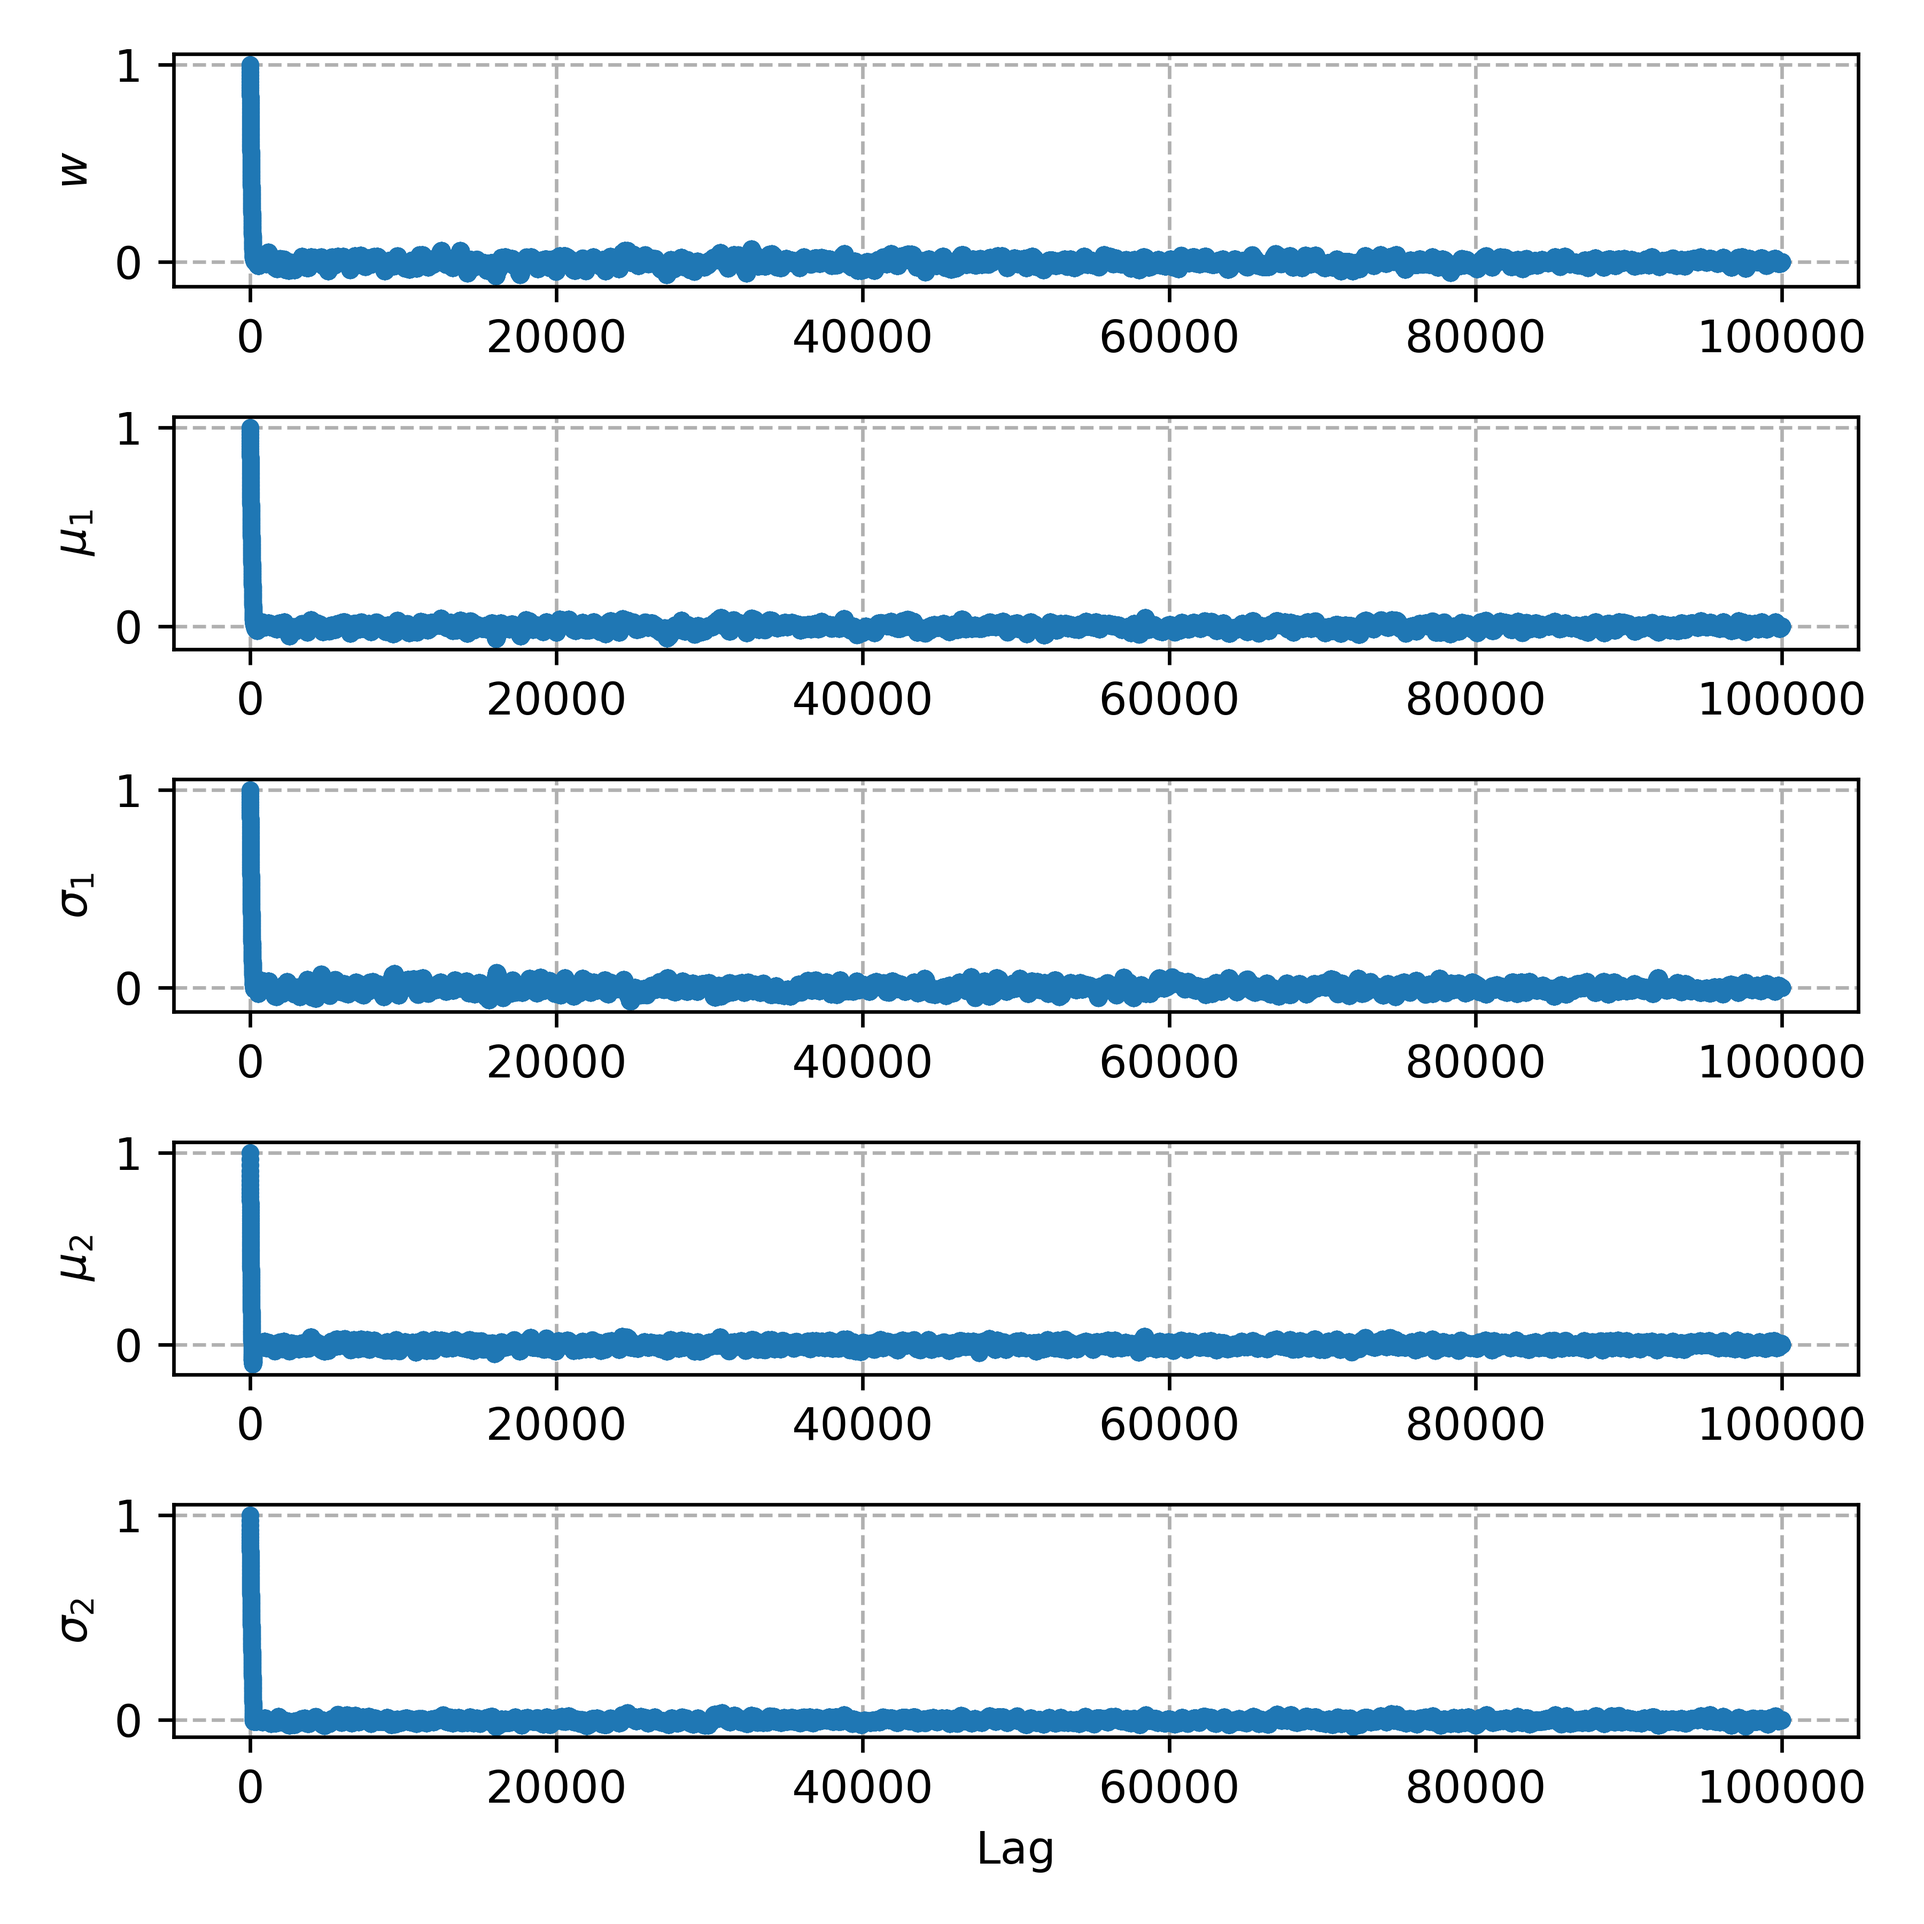
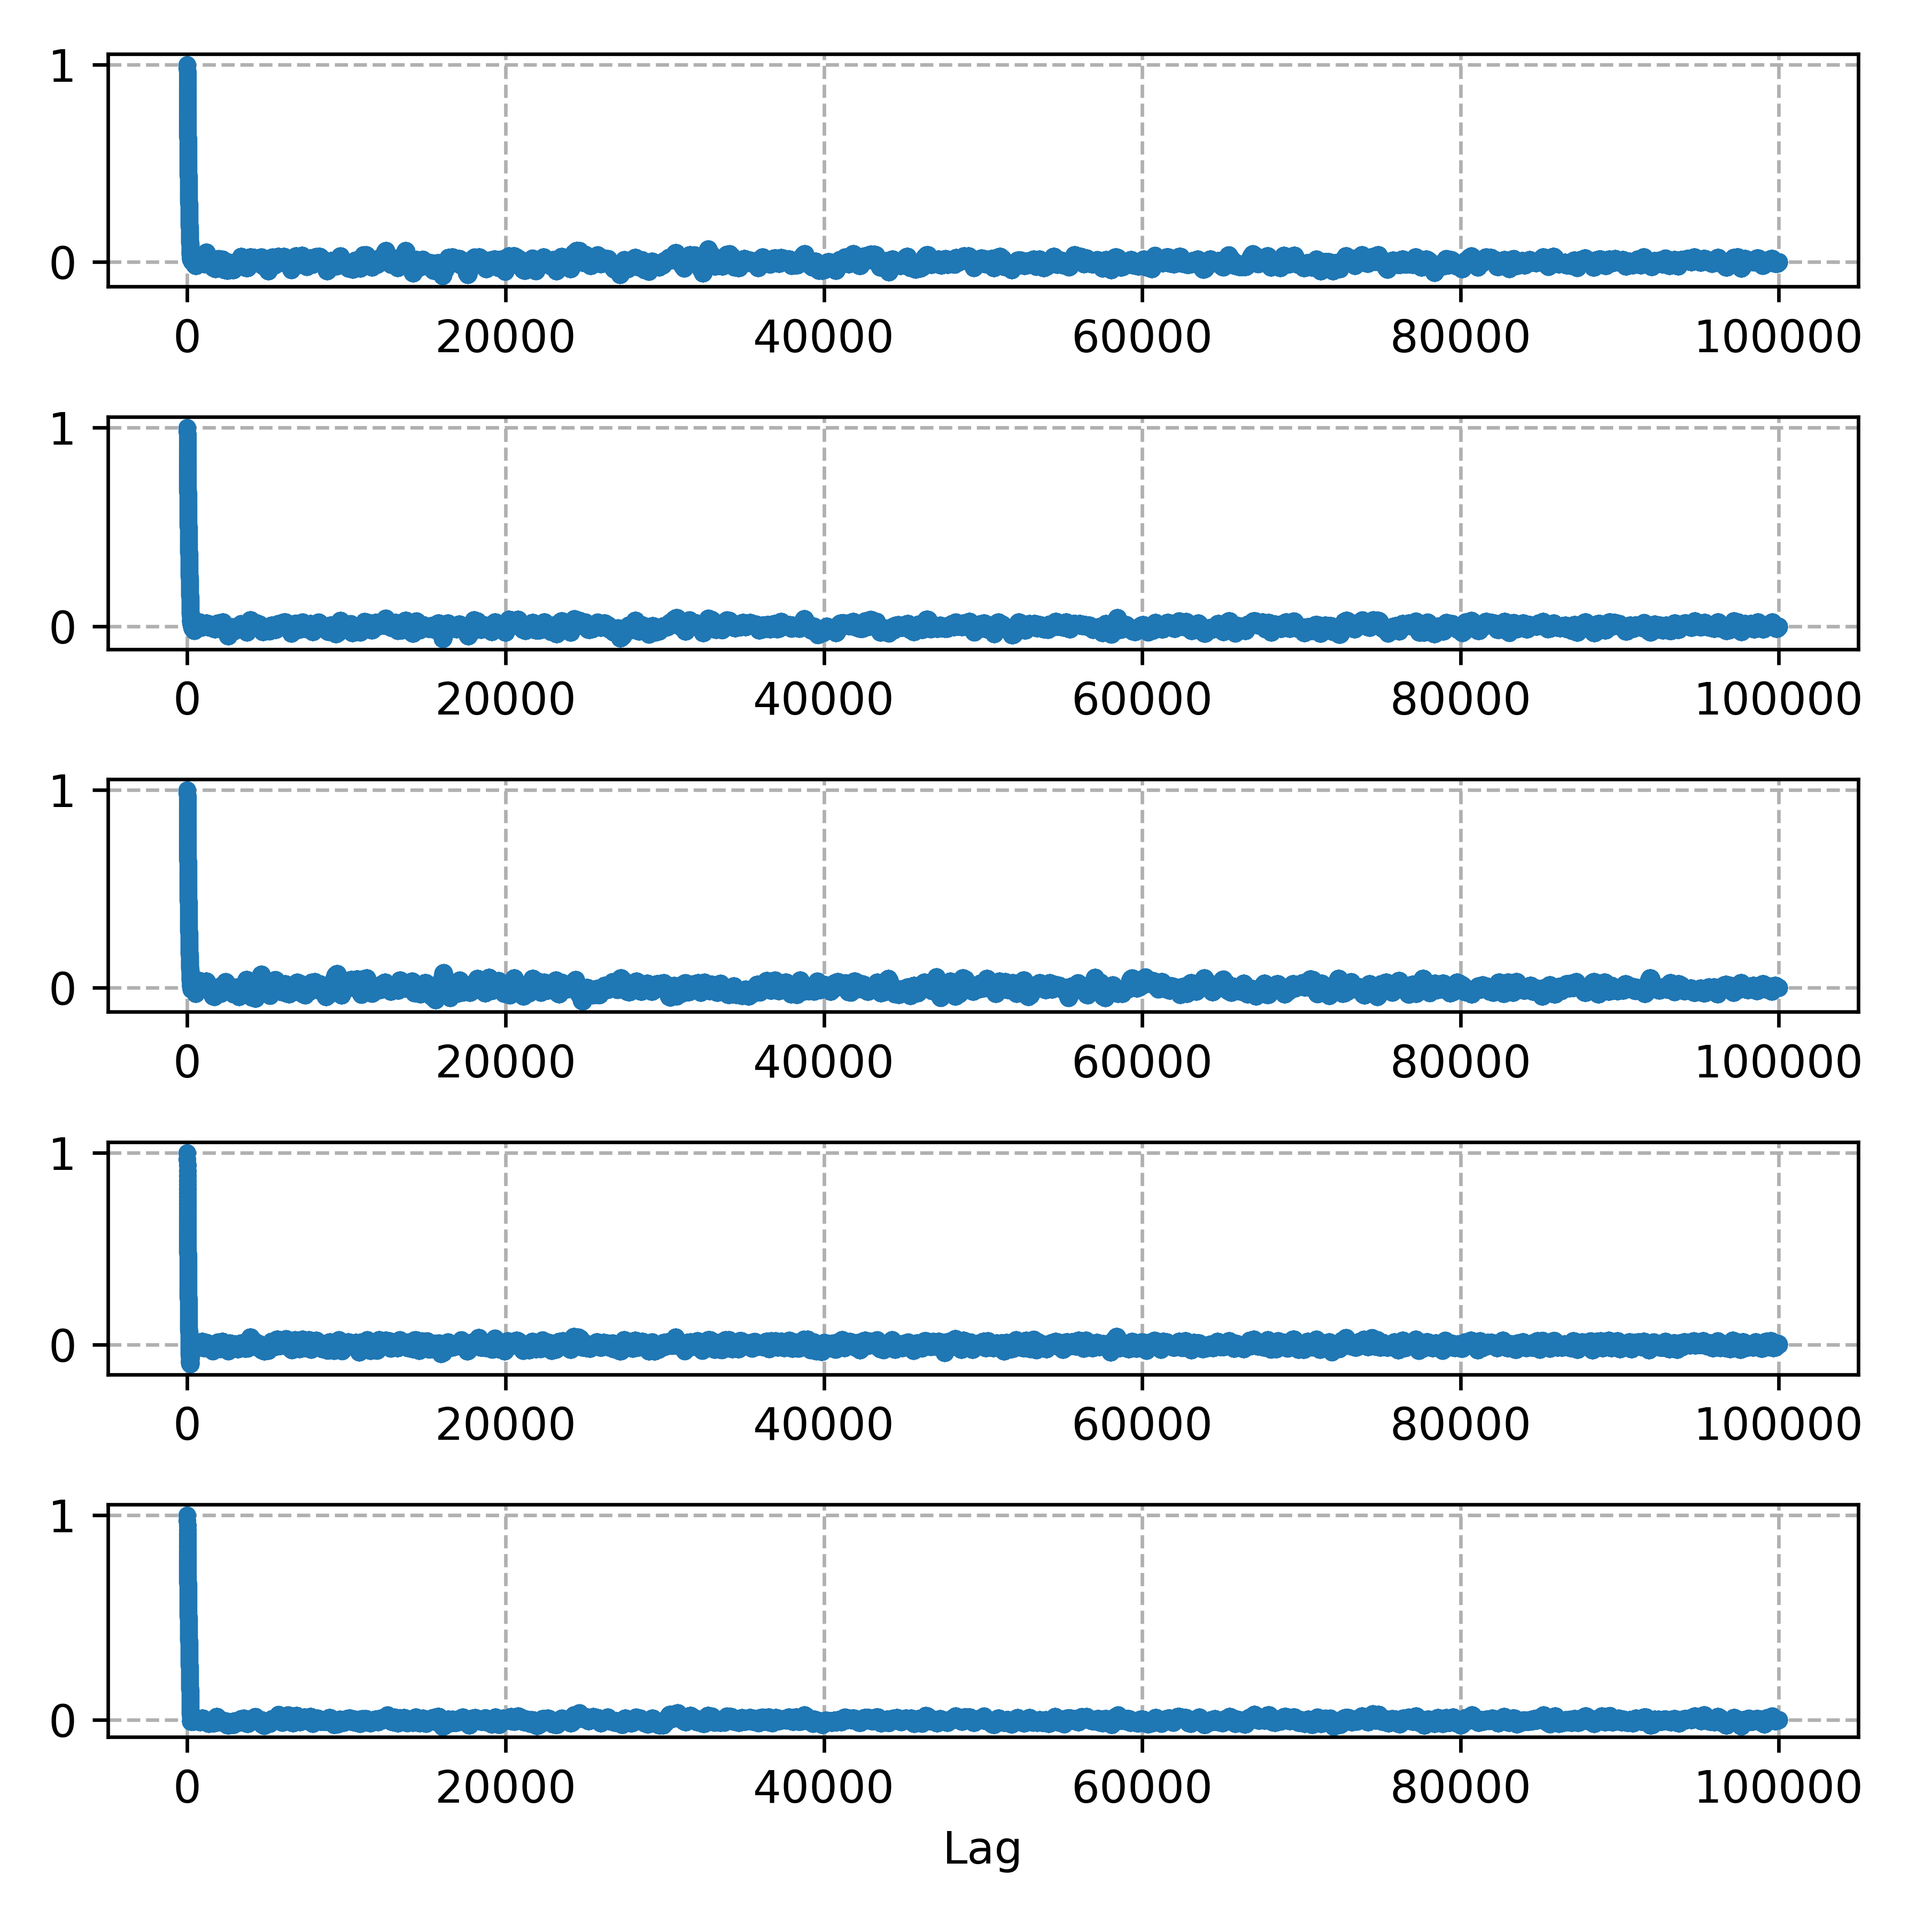
04/04: wrong labels on autocorrelation

diff --git a/GRB_class_1.py b/GRB_class_1.py
@@ -333,7 +333,6 @@ if __name__ == "__main__":
     for i in range(samples.shape[1]):
         ax = fig3.add_subplot(5, 1, i+1)
         ax.plot(autocorrelation(samples[:,i]), '.', color = 'C0', label = 'Autocorrelation')
-        ax.set_ylabel(par_name[i])
         ax.grid(linestyle = 'dashed')
         ax.set_axisbelow(True)
     ax.set_xlabel("Lag")
@@ -346,7 +345,6 @@ if __name__ == "__main__":
         autoc = autocorrelation(samples[:,i])
         ax.plot(autoc, '.', color = 'C0', label = f'Value at thinning: {autoc[thinning]:.2f}')
         ax.axvline(thinning, color = 'r', linestyle = 'dashed')
-        ax.set_ylabel(par_name[i])
         ax.set_xlim(-10, 2 * thinning)
         ax.legend()
         ax.grid(linestyle = 'dashed')

diff --git a/GRB_class_1b.py b/GRB_class_1b.py
@@ -422,8 +422,8 @@ if __name__ == "__main__":
 
     # end of point: save, show or close all the open figures
     
-    #plt.show()
-    #exit()
+    plt.show()
+    exit()
 
     fig0.savefig(main_dir+"\\Results\\1b\\Err_Dataset.png", dpi = 600)
     fig1.savefig(main_dir+"\\Results\\1b\\Err_Parameters_chain.png", dpi = 600)
